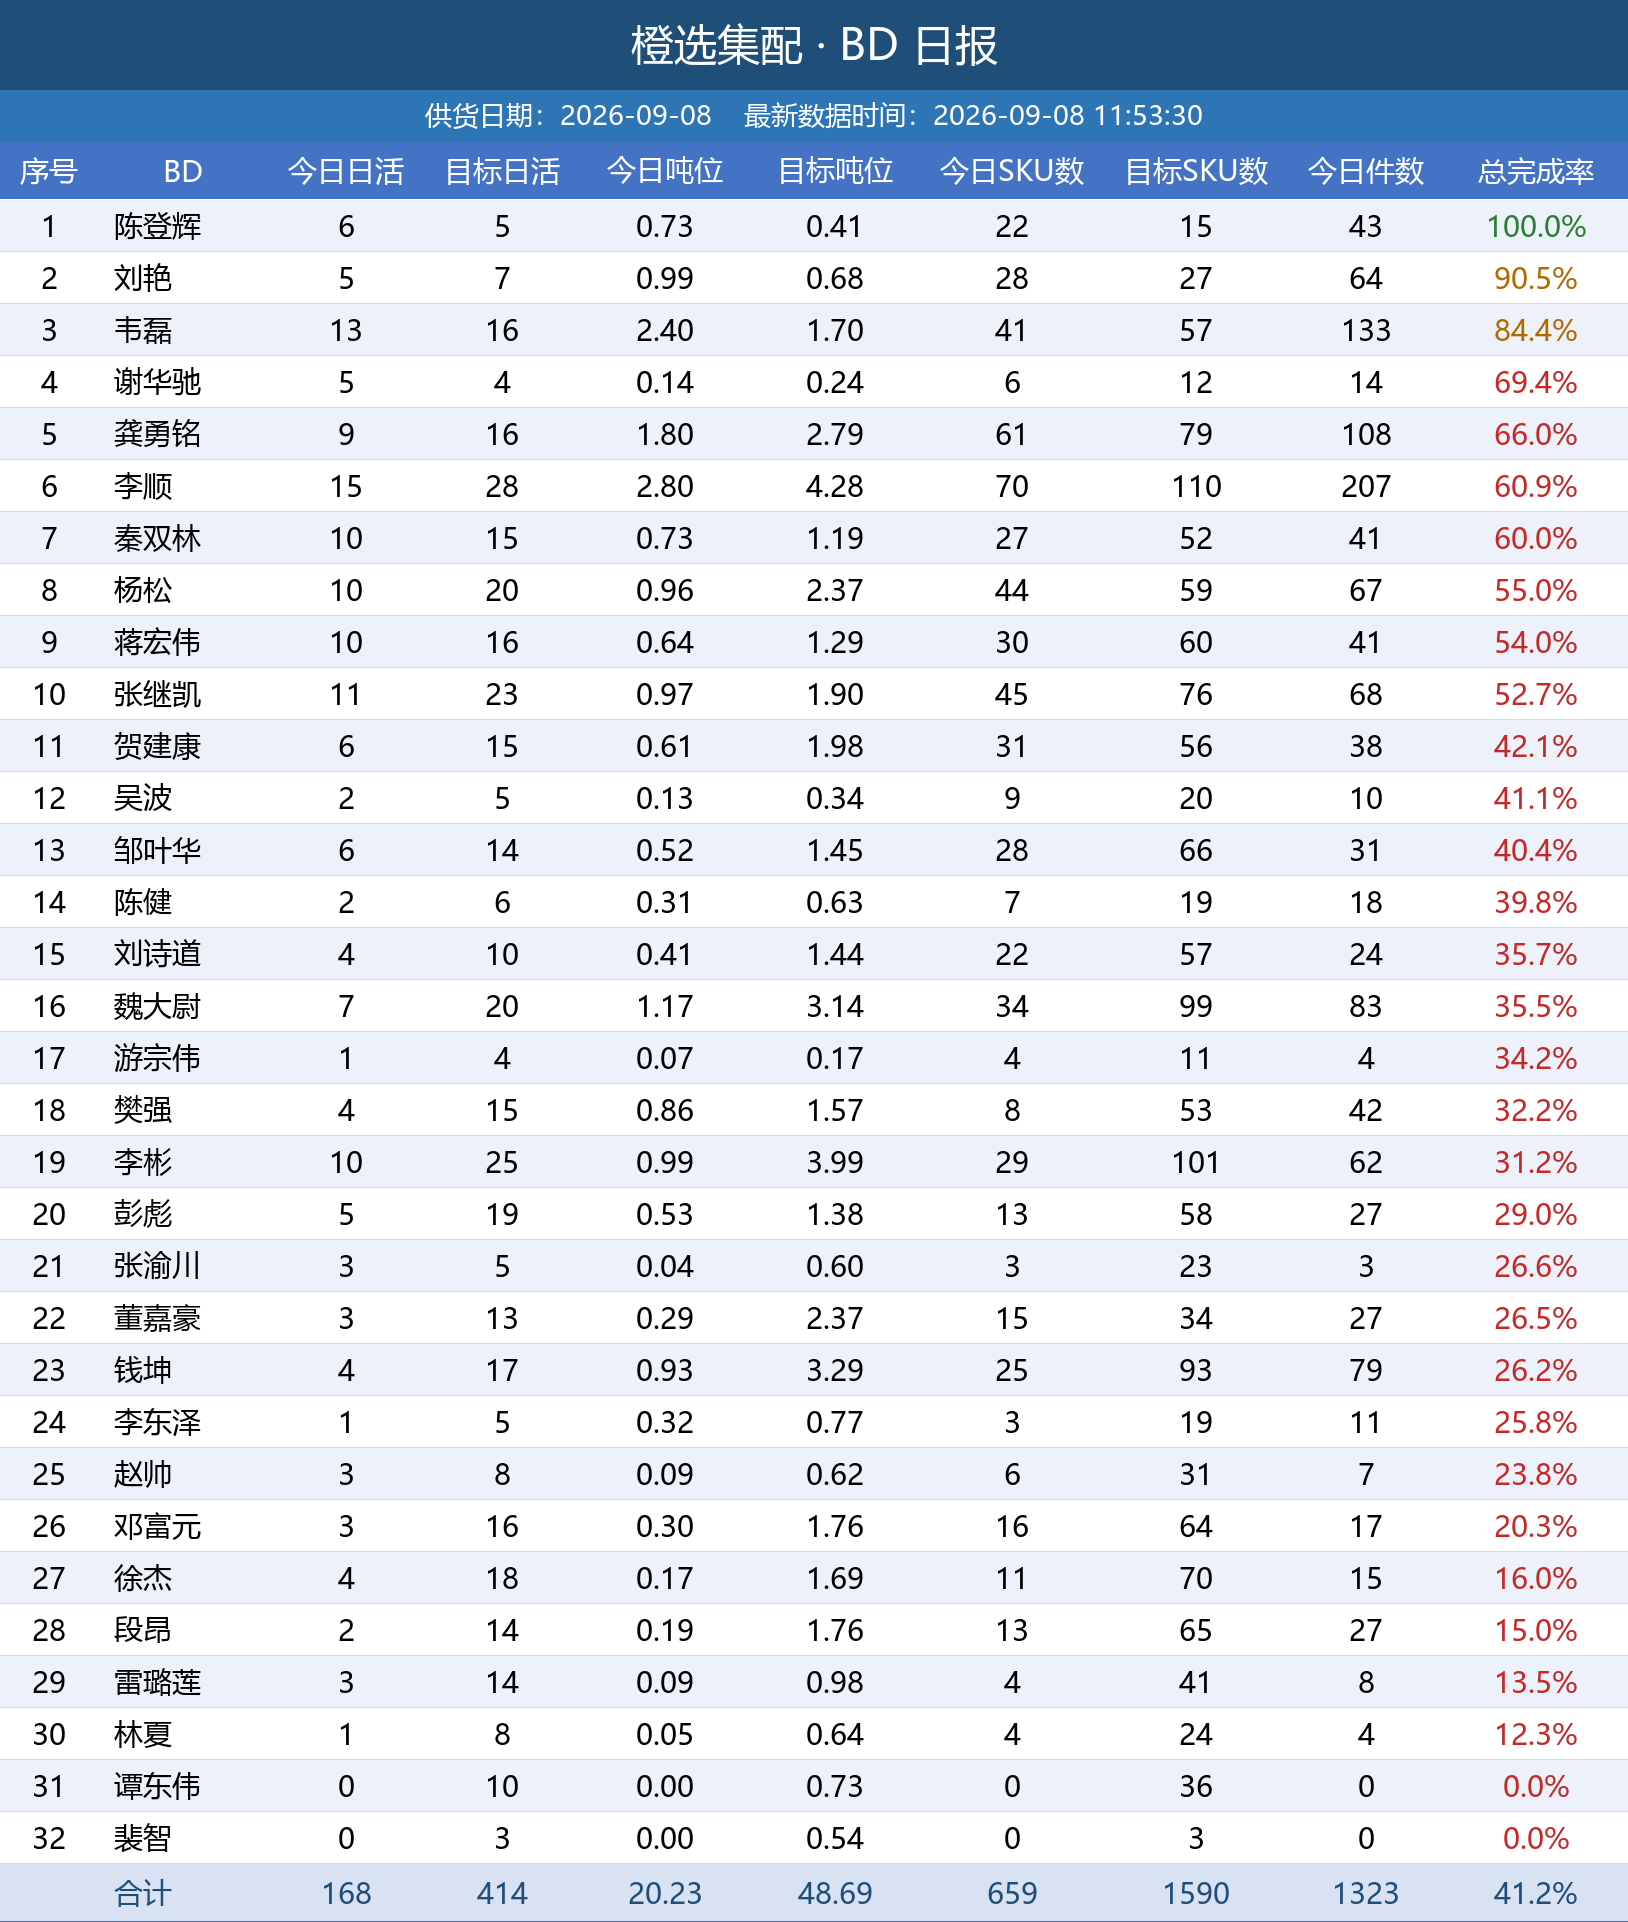
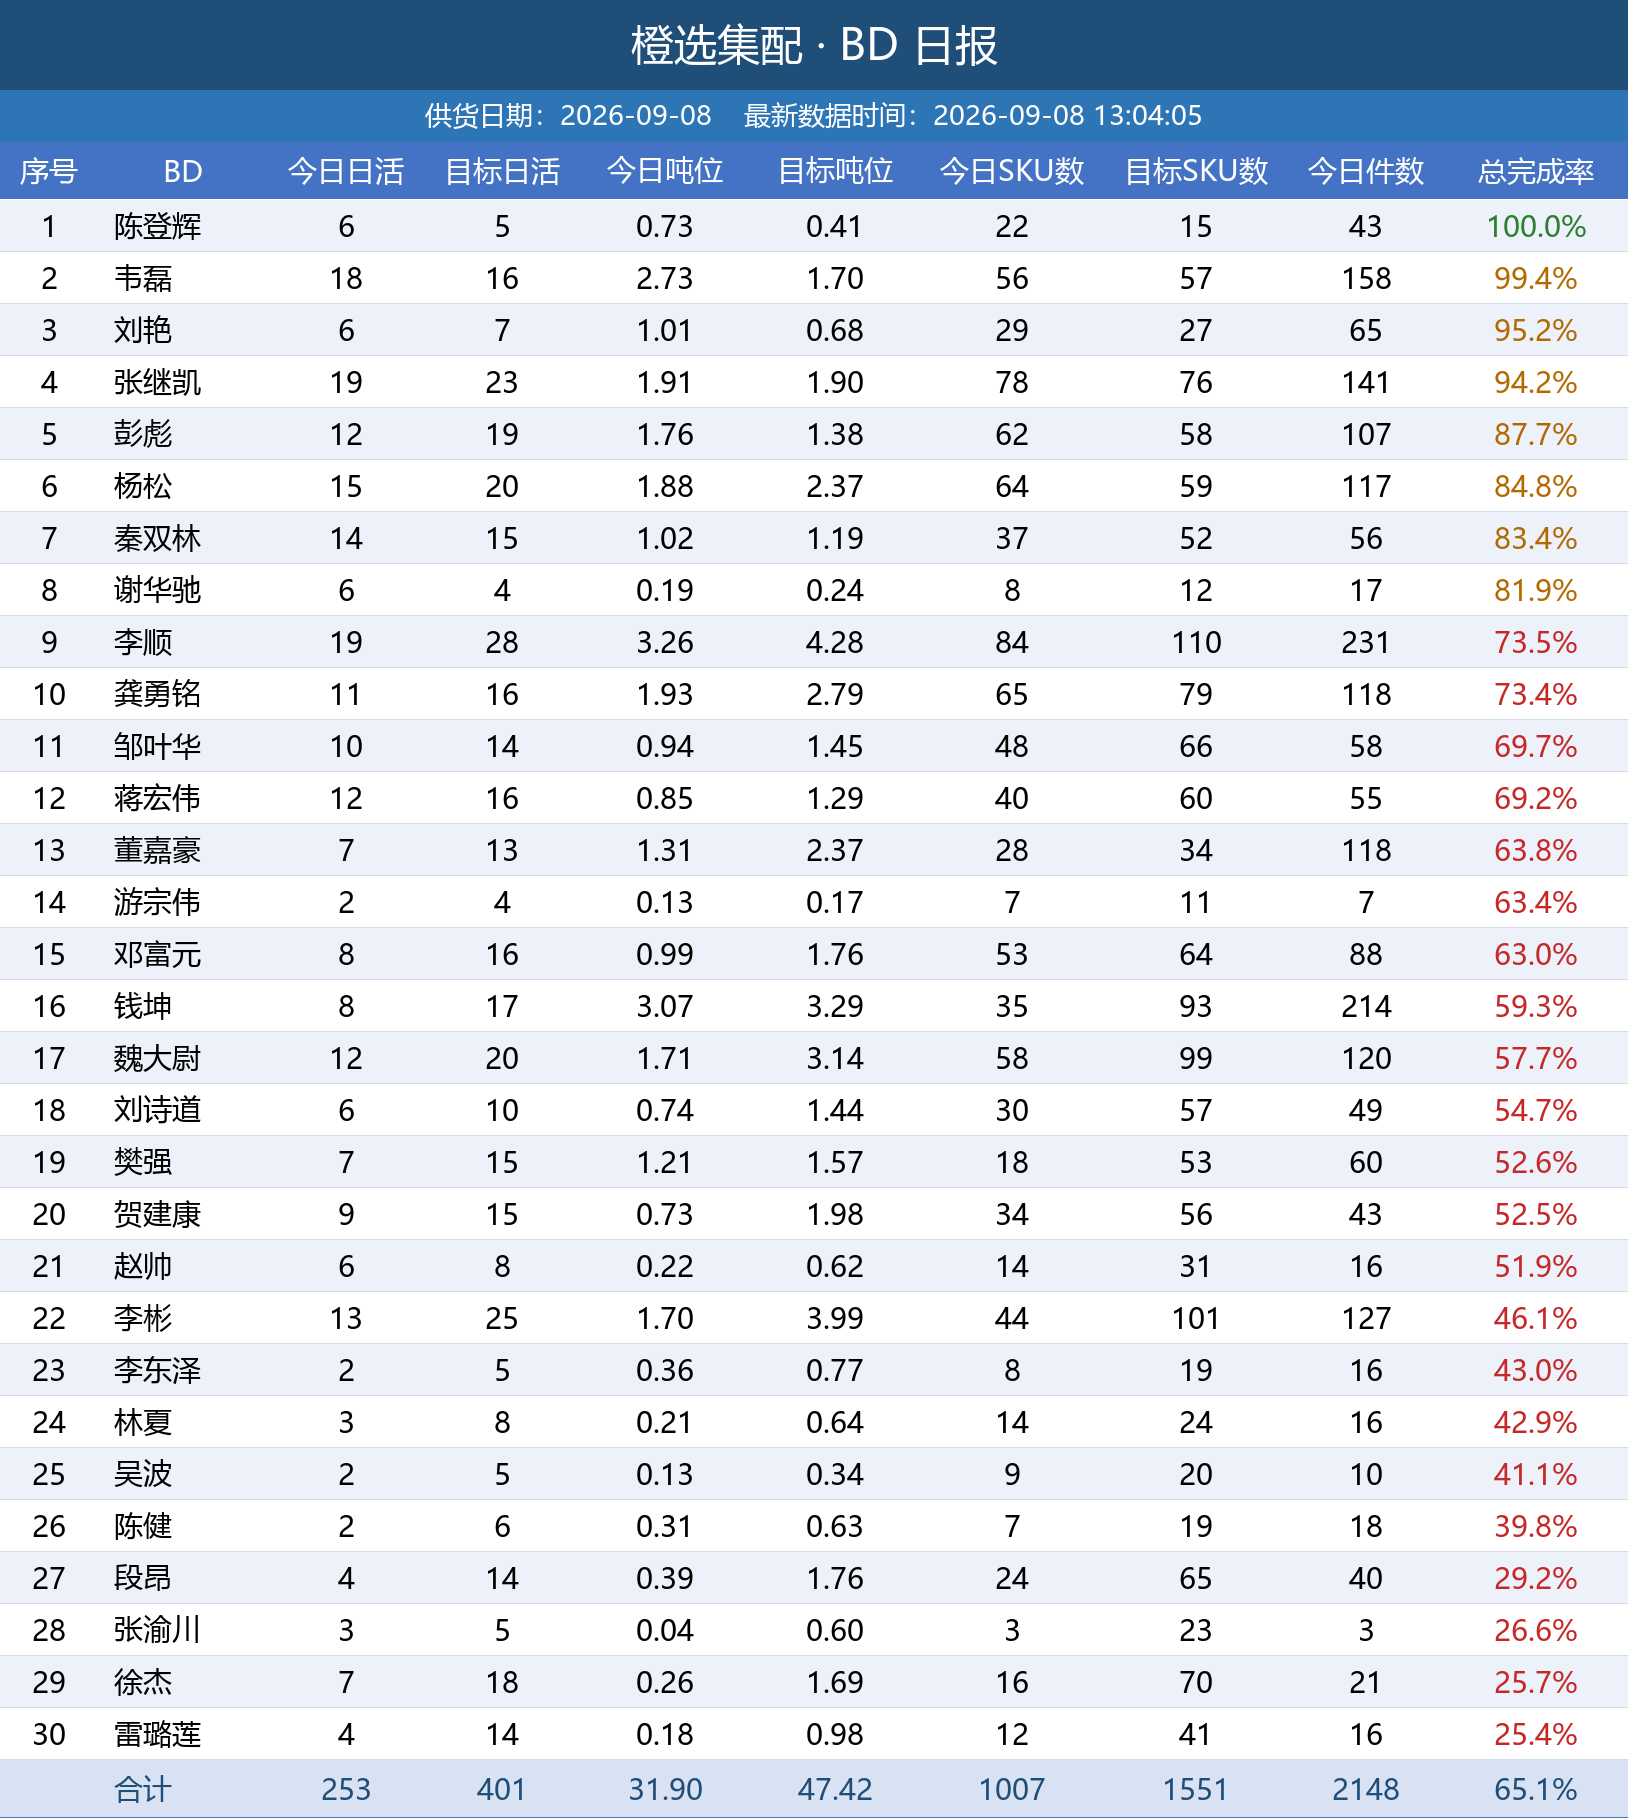
自动更新日报图片

diff --git a/index.html b/index.html
@@ -11,7 +11,7 @@ img { max-width: 100%; border: 1px solid #e5e5e5; margin-bottom: 24px; display: 
 </style>
 </head>
 <body>
-<h1>橙选集配日报图片（20260908_115335）</h1>
+<h1>橙选集配日报图片（20260908_130413）</h1>
 <img src="bd_latest.png" alt="BD 日报">
 <img src="wh_latest.png" alt="城市仓日报">
 <img src="zs_latest.png" alt="招商日报">
